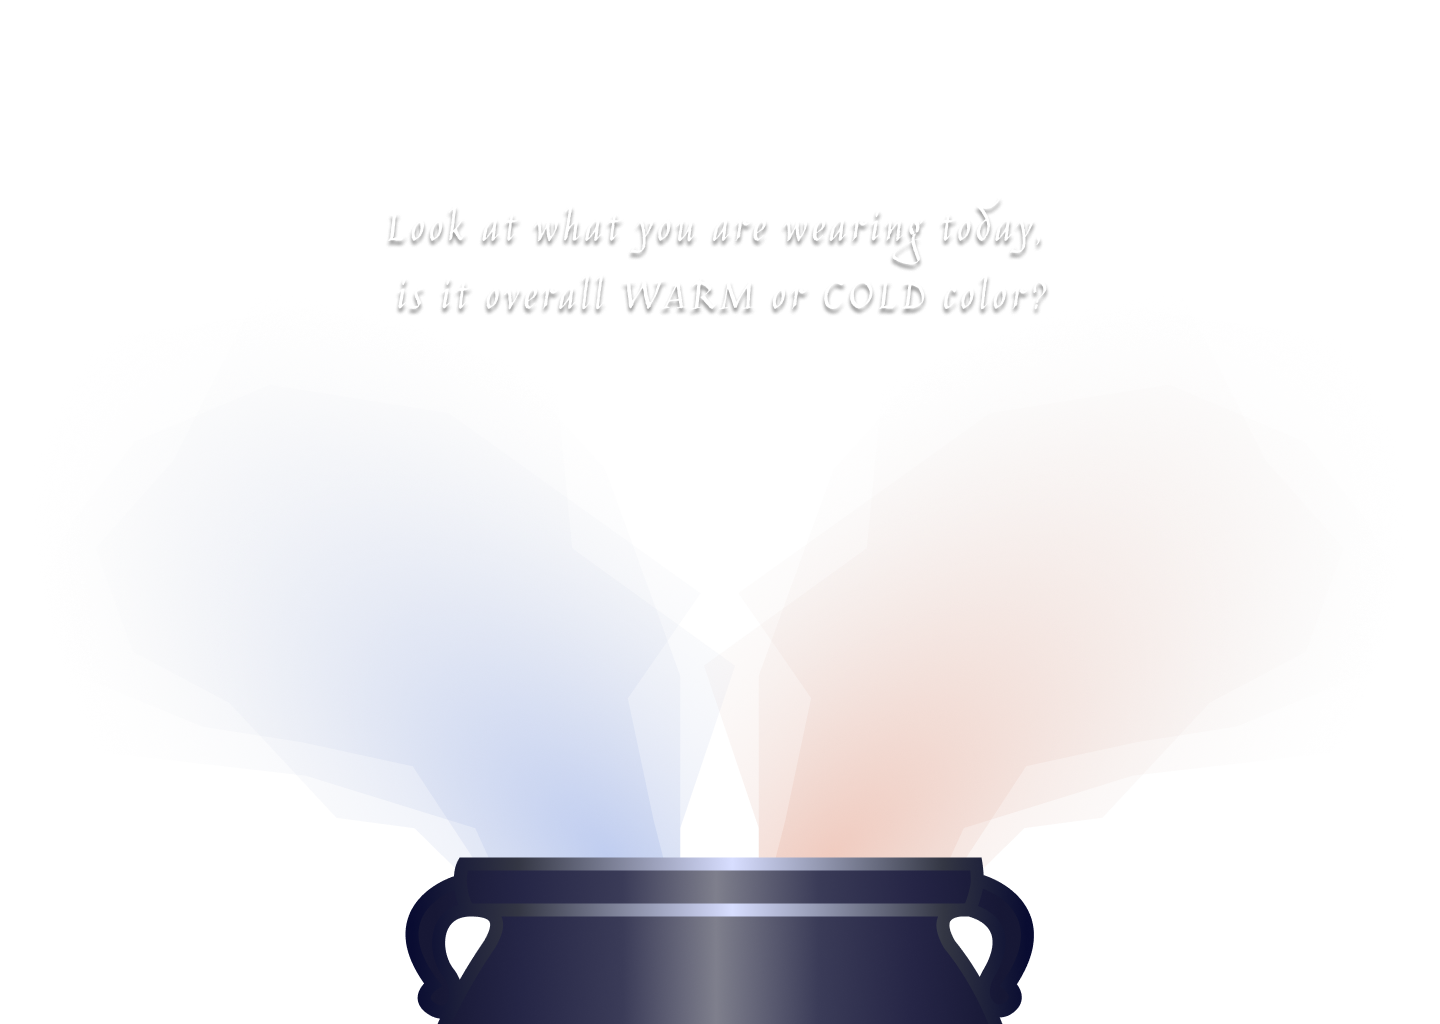
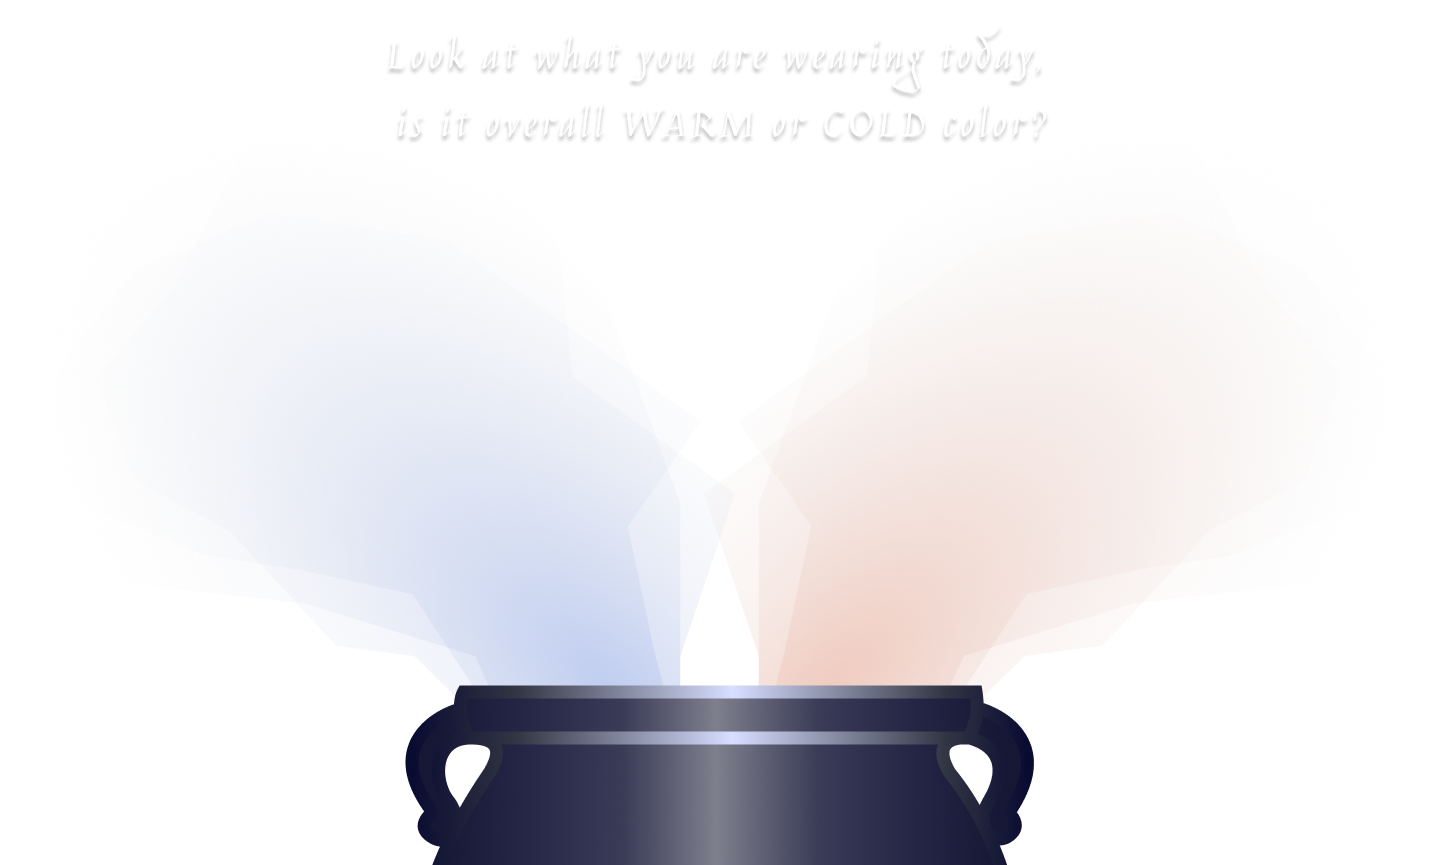
page2 img placed

diff --git a/style.css b/style.css
@@ -43,6 +43,8 @@
 }
 
 
+/* PAGE ONE */
+
 .img1_1 {
     /* display: flex;
     justify-content: center;
@@ -110,4 +112,36 @@
 .img1_3:hover {
     transform: translateX(0px);
     -webkit-transform: translateY(-5px);
+}
+
+/* PAGE TWO */
+
+.img2_1 {
+    max-width: 1247px;
+    max-height: 181px;
+
+    display: block;
+    margin-left: auto;
+    margin-right: auto;
+
+
+    width: 70%;
+}
+
+.img2_2 {
+    /* display: flex;
+    justify-content: center;
+    align-items: center;
+    height: 100vh; */
+
+    max-width: 1290px;
+    max-height: 715px;
+
+    align-items: flex-end;
+
+    display: block;
+    margin-left: auto;
+    margin-right: auto;
+
+    width: 100%;
 }

diff --git a/page2.html b/page2.html
@@ -8,12 +8,15 @@
 
     <link href="style.css" rel="stylesheet" />
 
-    <title>Document</title>
+    <title>Pot Warm or Cold</title>
 </head>
 
 <body class="body page2">
-    <div id="circle"></div>
-    <script src="main.js"></script>
+    <!-- <div id="circle"></div>
+    <script src="main.js"></script> -->
+
+    <img class="img2_1" src="./image/2_1_fortune_like.png" alt="What's your FORTUNE like today">
+    <img class="img2_2" src="./image/2_2.png" alt="pot and text asking Warm or Cold">
 
 
 </body>
